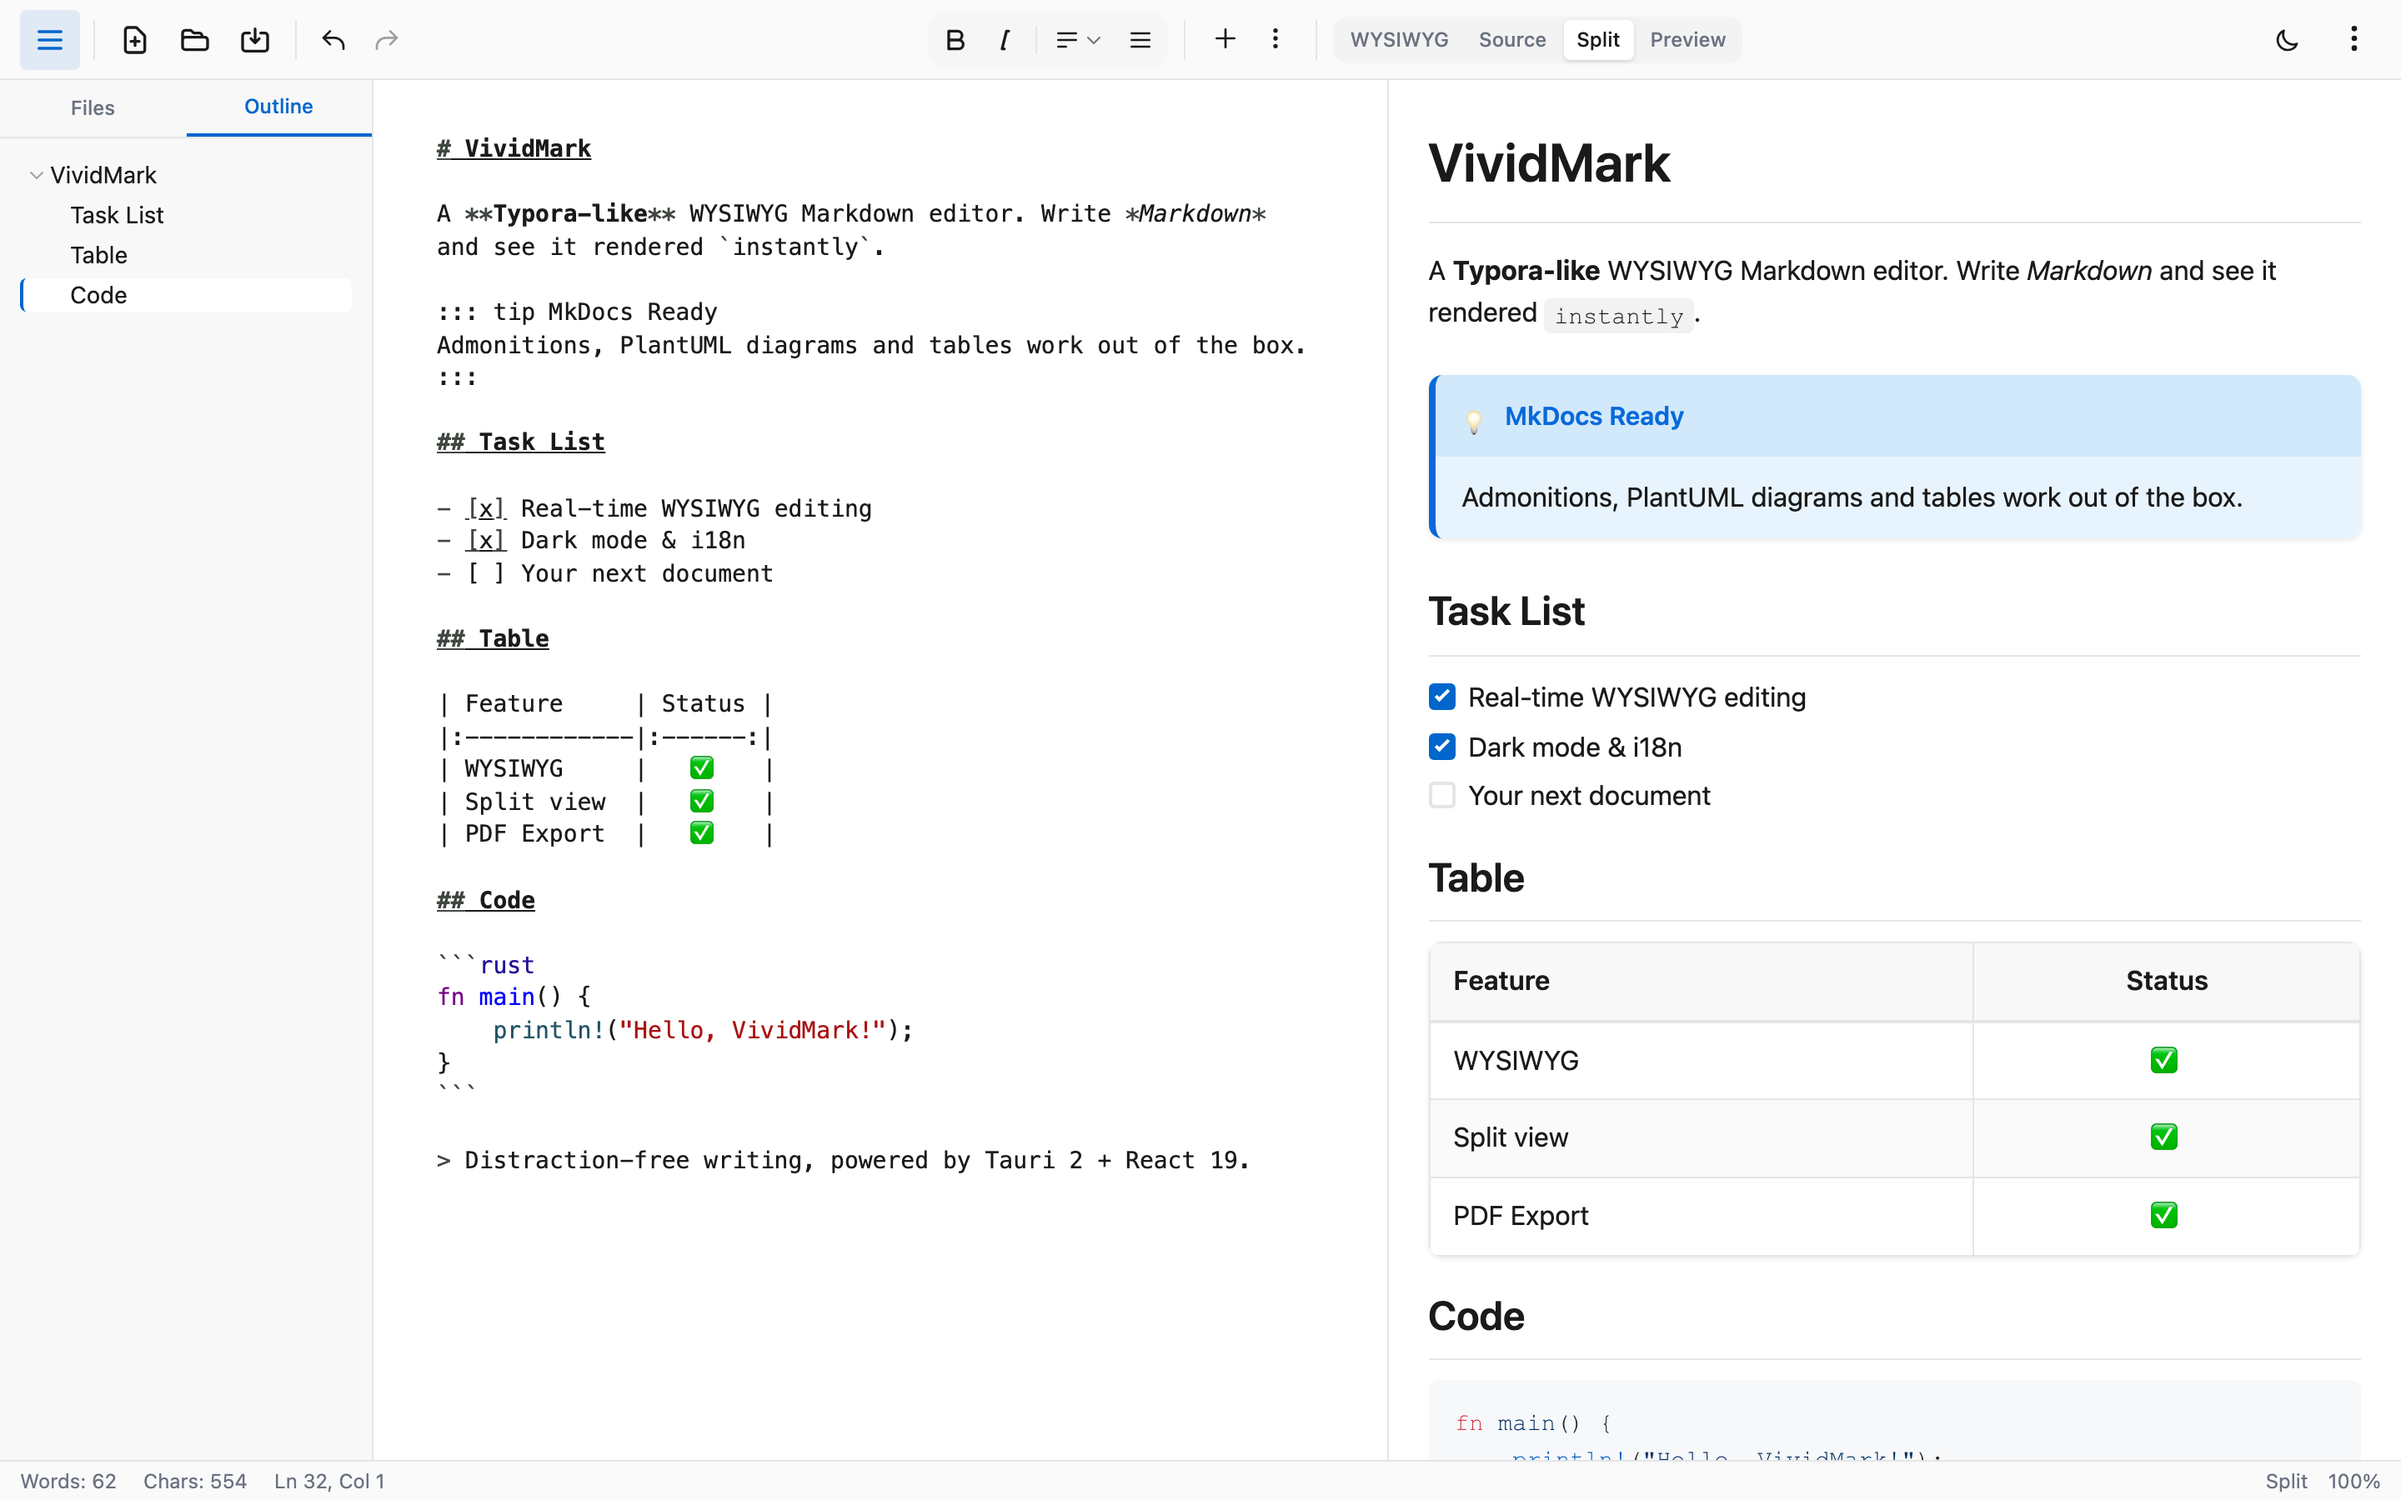
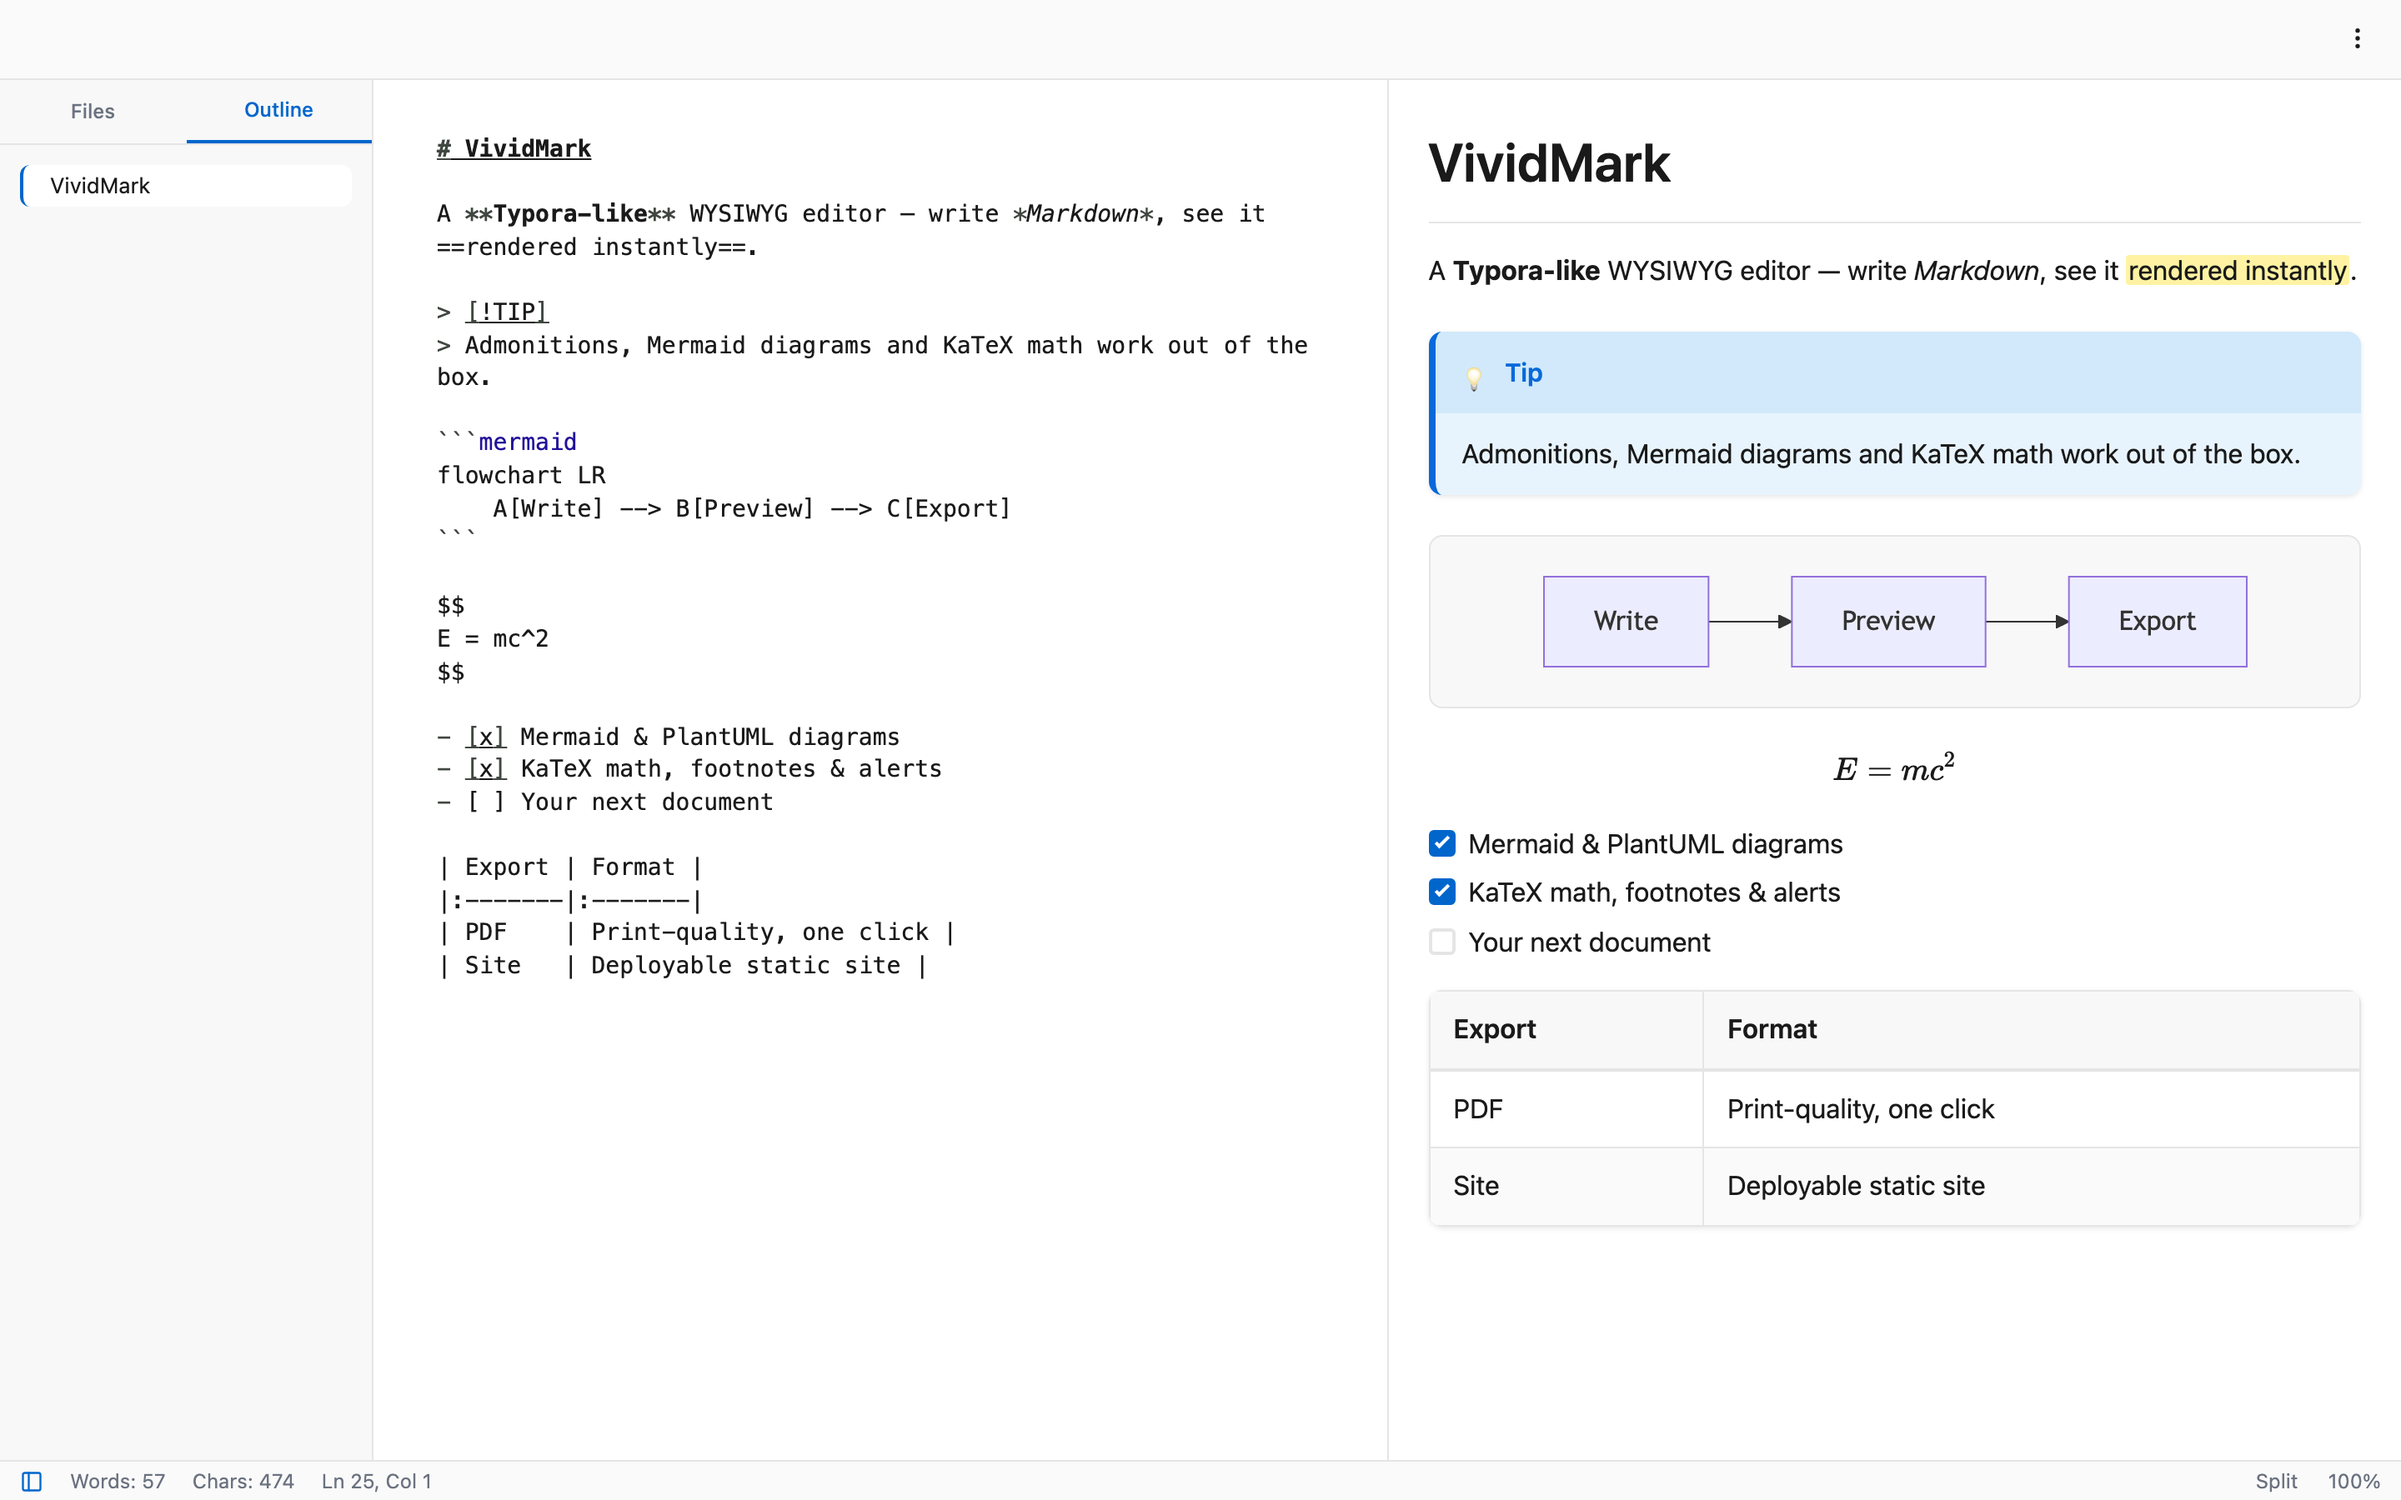
docs: 更新 README 截图——覆盖 Alert/Mermaid/KaTeX/查看器特色
- 重写 take-screenshots.mjs：模式切换改走状态栏下拉（旧脚本仍在找
  已下线的工具栏按钮），演示文档一屏覆盖 GitHub Alert、Mermaid、
  KaTeX、任务列表、表格与 == 高亮
- 重新生成 WYSIWYG 浅色/深色、Split 三张截图（2880×1800）
- 新增图表全屏查看器截图（156% 缩放），README 双语截图区同步为
  四图布局（上排 WYSIWYG 双主题，下排 Split + 查看器）

Model: Kimi K3 max

diff --git a/README.md b/README.md
@@ -22,7 +22,8 @@ Visit the project website: **[https://scottli139.github.io/vividmark](https://sc
   <img src="docs/images/screenshot-wysiwyg-dark.png" alt="WYSIWYG editing — dark theme" width="49%">
 </p>
 <p align="center">
-  <img src="docs/images/screenshot-split-light.png" alt="Split mode — source and live preview" width="70%">
+  <img src="docs/images/screenshot-split-light.png" alt="Split mode — source and live preview" width="49%">
+  <img src="docs/images/screenshot-viewer-dark.png" alt="Fullscreen diagram/image viewer with zoom" width="49%">
 </p>
 
 ## Features

diff --git a/README.zh-CN.md b/README.zh-CN.md
@@ -22,7 +22,8 @@
   <img src="docs/images/screenshot-wysiwyg-dark.png" alt="所见即所得编辑 — 深色主题" width="49%">
 </p>
 <p align="center">
-  <img src="docs/images/screenshot-split-light.png" alt="分屏模式 — 源码与实时预览" width="70%">
+  <img src="docs/images/screenshot-split-light.png" alt="分屏模式 — 源码与实时预览" width="49%">
+  <img src="docs/images/screenshot-viewer-dark.png" alt="图表/图片全屏查看器（支持缩放）" width="49%">
 </p>
 
 ## 功能特性
